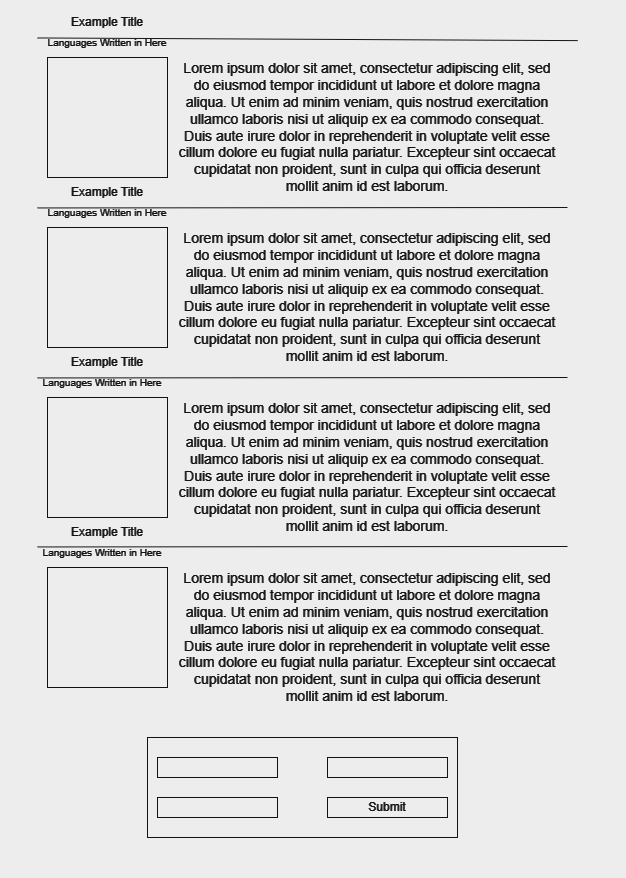
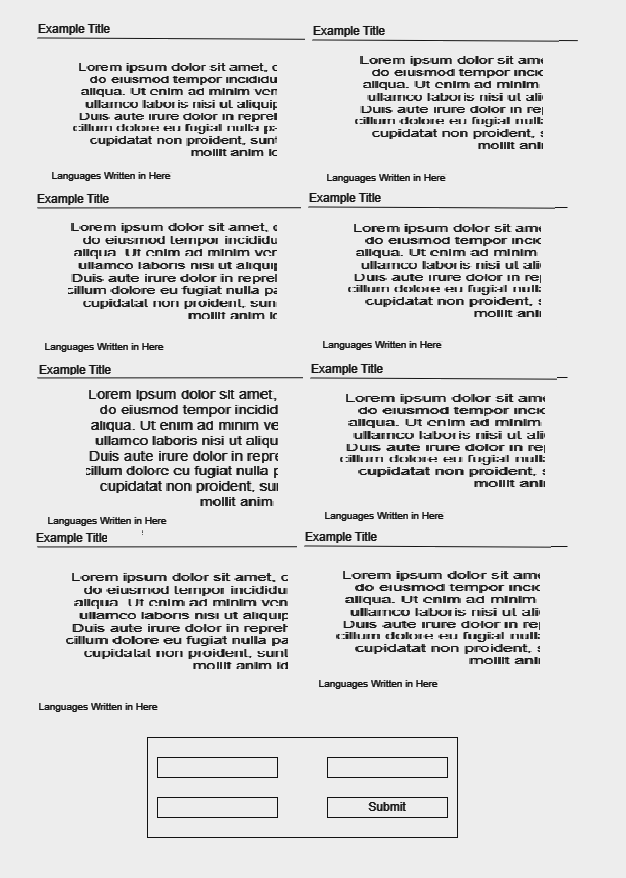
correct the GET and POST request sequence diagrams.

Changed region(s): [[0.0607, 0.0, 0.8802, 0.7995], [0.0607, 0.7995, 0.2428, 0.8303]]

diff --git a/README.md b/README.md
@@ -5,3 +5,8 @@
   <li>run <b>npm install</b> to install required dependencies.</li>
   <li>run <b>npm run dev</b> to compile the the TypeScript and start the server.</li>
 </ol>
+<p> For evt. foreleser, studass: jeg hadde en del problemer med å konfigurere .tsconfig og package.json gjennom denne prosessen. </p>
+<p>Jeg lagde mine egne konfigurasjonsfiler osv. men om det er en litt sånn idiotsikker prosess som kan deles så si gjerne ifra!</p>
+<p>F.eks. jeg visste ikke (og vet heller enda ikke helt) hva 'commonjs' er. Så at jeg måtte bytte til ESNext for ts tok meg litt på senga. </p>
+<h3>N.B.</h3>
+<p>Det endelige utseende på siden avviker litt fra wireframen.</p>
